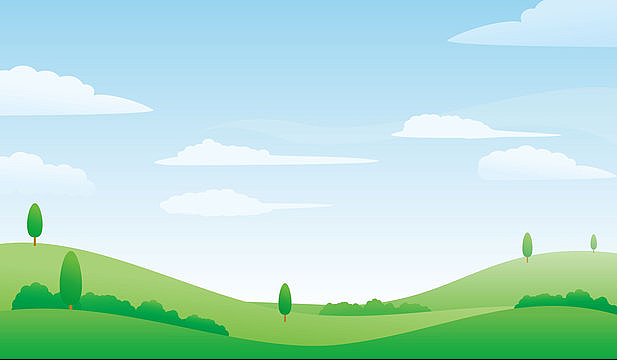
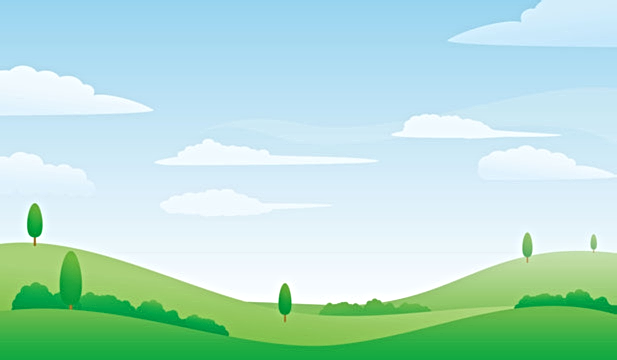
background change

diff --git a/index.html b/index.html
@@ -114,11 +114,19 @@
         <!-- End Music -->
         <!-- About -->
         
-        <div class="custom-shape-divider-top-1646414558">
+        <!-- <div class="custom-shape-divider-top-1646414558">
             <svg data-name="Layer 1" xmlns="http://www.w3.org/2000/svg" viewBox="0 0 1200 120" preserveAspectRatio="none">
                 <path d="M321.39,56.44c58-10.79,114.16-30.13,172-41.86,82.39-16.72,168.19-17.73,250.45-.39C823.78,31,906.67,72,985.66,92.83c70.05,18.48,146.53,26.09,214.34,3V0H0V27.35A600.21,600.21,0,0,0,321.39,56.44Z" class="shape-fill"></path>
             </svg>
             
+        </div> -->
+
+        <div class="custom-shape-divider-top-1646440139">
+            <svg data-name="Layer 1" xmlns="http://www.w3.org/2000/svg" viewBox="0 0 1200 120" preserveAspectRatio="none">
+                <path d="M0,0V46.29c47.79,22.2,103.59,32.17,158,28,70.36-5.37,136.33-33.31,206.8-37.5C438.64,32.43,512.34,53.67,583,72.05c69.27,18,138.3,24.88,209.4,13.08,36.15-6,69.85-17.84,104.45-29.34C989.49,25,1113-14.29,1200,52.47V0Z" opacity=".25" class="shape-fill"></path>
+                <path d="M0,0V15.81C13,36.92,27.64,56.86,47.69,72.05,99.41,111.27,165,111,224.58,91.58c31.15-10.15,60.09-26.07,89.67-39.8,40.92-19,84.73-46,130.83-49.67,36.26-2.85,70.9,9.42,98.6,31.56,31.77,25.39,62.32,62,103.63,73,40.44,10.79,81.35-6.69,119.13-24.28s75.16-39,116.92-43.05c59.73-5.85,113.28,22.88,168.9,38.84,30.2,8.66,59,6.17,87.09-7.5,22.43-10.89,48-26.93,60.65-49.24V0Z" opacity=".5" class="shape-fill"></path>
+                <path d="M0,0V5.63C149.93,59,314.09,71.32,475.83,42.57c43-7.64,84.23-20.12,127.61-26.46,59-8.63,112.48,12.24,165.56,35.4C827.93,77.22,886,95.24,951.2,90c86.53-7,172.46-45.71,248.8-84.81V0Z" class="shape-fill"></path>
+            </svg>
         </div>
         
 

diff --git a/style.css b/style.css
@@ -71,7 +71,7 @@ h6 {
     /* background: linear-gradient(#C6ECDE, white); */
     background: #d5e599;
     /* background: #f3efa2; */
-    background: url(img/landscape1.png);
+    background: url(img/landscape.png);
     background-repeat: no-repeat;
     background-size: cover;
 
@@ -114,31 +114,33 @@ h6 {
 
 
 .about-container {
-    background:#d7f5da;
+    background:#d4f2ff;
     padding: 9% 10%;
 
 }
 
-.custom-shape-divider-top-1646414558 {
+
+.custom-shape-divider-top-1646440139 {
     position: relative;
     top: 0;
     left: 0;
     width: 100%;
     overflow: hidden;
     line-height: 0;
-    background: #D7F5DA;
-} 
+    background:#d4f2ff;
+}
 
-.custom-shape-divider-top-1646414558 svg {
+.custom-shape-divider-top-1646440139 svg {
     position: relative;
     display: block;
     width: calc(100% + 1.3px);
-    height: 150px;
+    height: 106px;
 }
 
-.custom-shape-divider-top-1646414558 .shape-fill {
+.custom-shape-divider-top-1646440139 .shape-fill {
     fill: #A8CF78;
 }
+
 
 
 .about-container h4{
